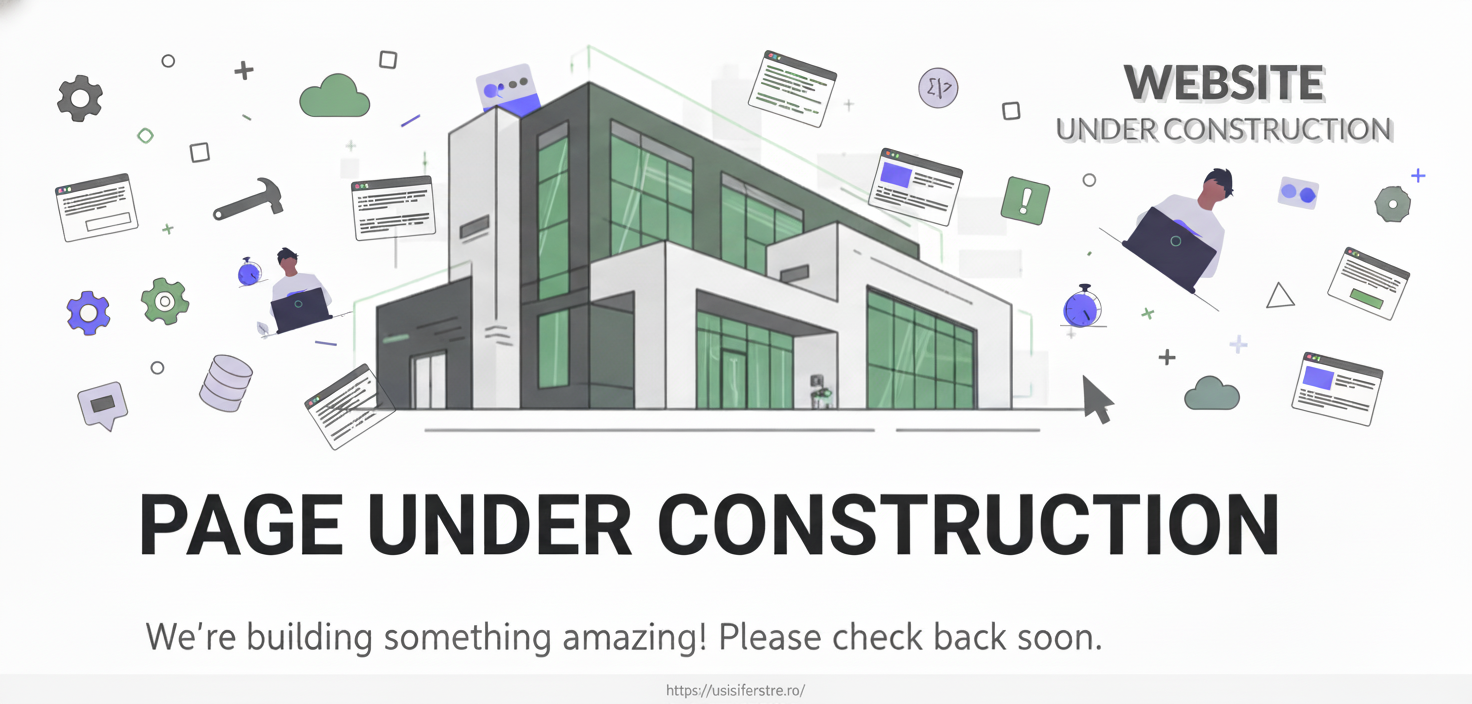
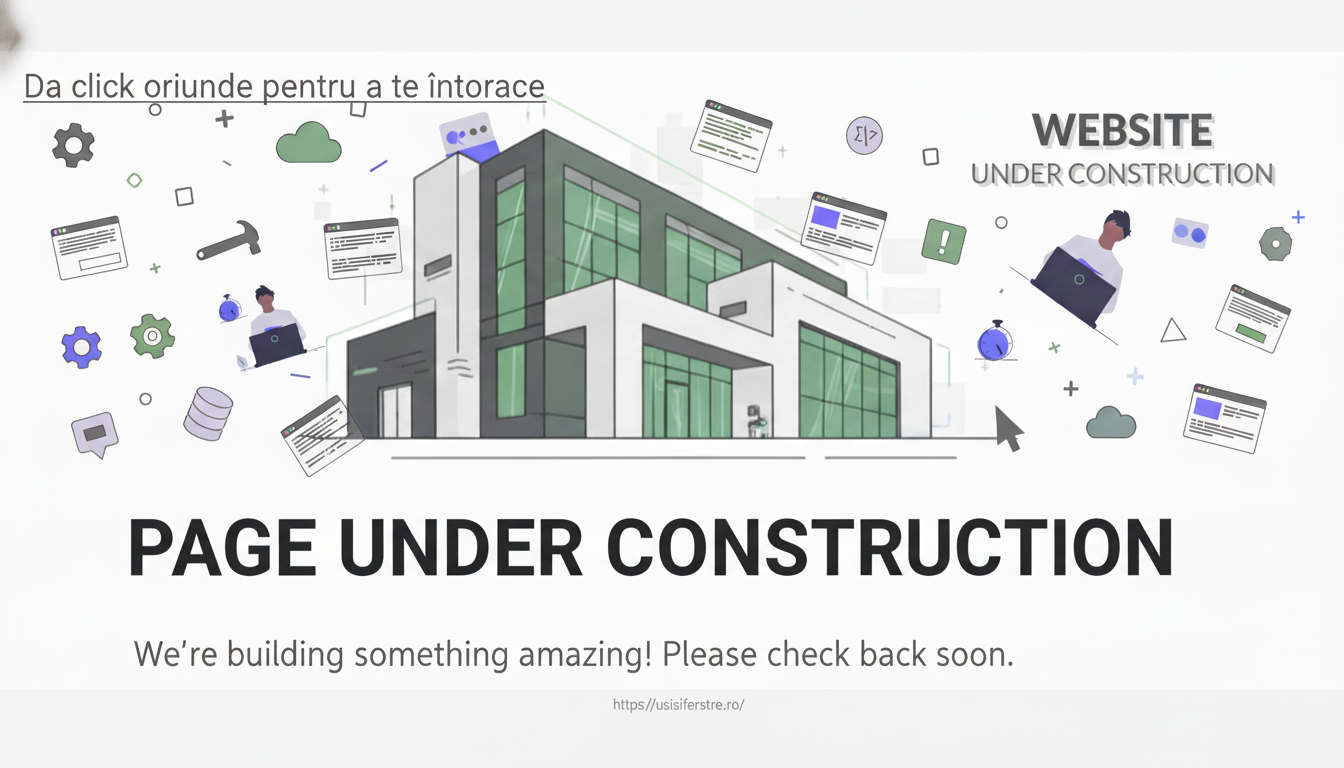
various changes, mobile responsive, whatsapp linking

diff --git a/src/app/shared/components/contact-info/contact-info-bar.html b/src/app/shared/components/contact-info/contact-info-bar.html
@@ -1,12 +1,13 @@
 <section class="contact-info-container">
-  <p class="contact-info-container__info-text">
-    Mobil:
-    <a href="tel:+40757131273"><span style="text-decoration: underline">0757 131 273</span></a>
-    • WhatsApp:
-    <a href="https://wa.me/0720545757"><span style="text-decoration: underline">0720 545 757</span></a>
-    • E-mail:
-    <a class="contact-info-container__info-text--mail" href="mailto:info@usisiferestre.ro">
-      <span style="text-decoration: underline">info@usisiferestre.ro</span>
+    <a href="tel:+40757131273">
+      • Mobil: <span style="text-decoration: underline">0757 131 273</span>
     </a>
-  </p>
+
+    <a href="https://wa.me/40720545757">
+      • Whatsapp: <span style="text-decoration: underline">0720 545 757</span>
+    </a>
+
+    <a class="contact-info-container__info-text--mail" href="mailto:info@usisiferestre.ro">
+      • E-mail: <span style="text-decoration: underline">info@usisiferestre.ro</span>
+    </a>
 </section>

diff --git a/src/app/pages/homepage/homepage.html b/src/app/pages/homepage/homepage.html
@@ -2,9 +2,8 @@
   <section class="homepage__image-and-text-container">
     <div class="homepage__hero-container">
       <h1 class="homepage__hero-container__header">Usi si ferestre de calitate<br>superioara pentru casa ta</h1>
-      <p>Transforma spatiile din casa ta in locuri comfortabile si sigure,
-        <br> afla mai multe despre ofertele noastre
-      </p>
+      <p class="homepage__hero-container__text">Transforma spatiile din casa ta in locuri comfortabile si sigure, afla
+        mai multe despre ofertele noastre</p>
       <input class="homepage__hero-container__button" type="button" value="Descopera serviciile noastre">
       <div class="homepage__hero-container__links-container">
         <p class="homepage__hero-container__links-container--link" routerLink="">experienta</p>

diff --git a/src/app/app.routes.ts b/src/app/app.routes.ts
@@ -1,10 +1,11 @@
 import {Routes} from '@angular/router';
 import {Homepage} from './pages/homepage/homepage';
+import {UnderConstruction} from './pages/under-construction/under-construction';
 
 export const routes: Routes = [
   {path: '', redirectTo: 'homepage', pathMatch: 'full'},
   {path: 'homepage', component: Homepage},
-  {path: 'about-us', component: Homepage},
-  {path: 'products', component: Homepage},
-  {path: 'contact', component: Homepage},
+  {path: 'about-us', component: UnderConstruction},
+  {path: 'products', component: UnderConstruction},
+  {path: 'contact', component: UnderConstruction},
 ];

diff --git a/src/app/shared/components/contact-info/contact-info-bar.scss b/src/app/shared/components/contact-info/contact-info-bar.scss
@@ -1,12 +1,17 @@
 @use "../../../../assets/styles/colors";
 
 .contact-info-container {
+  display: flex;
+  background-color: colors.$primary-green-color;
+  color: colors.$white;
+  font-size: 14px;
+  padding: 8px;
+  gap: 10px;
+
   &__info-text {
     margin: 0;
     padding: 8px;
-    background-color: colors.$primary-green-color;
     color: colors.$white;
-    font-size: 14px;
 
     &--mail {
       color: colors.$white;

diff --git a/src/app/pages/under-construction/under-construction.scss b/src/app/pages/under-construction/under-construction.scss
@@ -1,0 +1,22 @@
+@use "../../../assets/styles/colors";
+
+.under-construction {
+  position: absolute;
+  top: 0;
+  left: 0;
+  right: 0;
+  bottom: 0;
+  z-index: 9999;
+  background-color: colors.$main-background-color;
+  text-align: center;
+  align-content: center;
+
+  & a {
+    text-decoration: underline;
+    font-weight: 500;
+  }
+
+  &, a, p {
+    white-space: wrap;
+  }
+}

diff --git a/src/app/pages/under-construction/under-construction.ts b/src/app/pages/under-construction/under-construction.ts
@@ -1,8 +1,11 @@
-import { Component } from '@angular/core';
+import {Component} from '@angular/core';
+import {RouterLink} from '@angular/router';
 
 @Component({
   selector: 'app-under-construction',
-  imports: [],
+  imports: [
+    RouterLink
+  ],
   templateUrl: './under-construction.html',
   styleUrl: './under-construction.scss',
 })

diff --git a/src/app/shared/components/nav-bar/nav-bar.scss b/src/app/shared/components/nav-bar/nav-bar.scss
@@ -6,6 +6,7 @@
   position: sticky;
   background-color: colors.$white;
   color: colors.$main-text-color;
+  height: 64px;
 
   &__logo {
     cursor: pointer;
@@ -22,6 +23,10 @@
 
     @media only screen and (max-width: 1024px) {
       width: 98%;
+    }
+
+    @media only screen and (max-width: 646px) {
+      display: none;
     }
   }
 

diff --git a/src/app/pages/homepage/homepage.scss b/src/app/pages/homepage/homepage.scss
@@ -60,6 +60,15 @@
   &__hero-container {
     padding: 14px 20px;
 
+    &__text {
+      width: 520px;
+      white-space: wrap;
+      @media only screen and (max-width: 640px) {
+        width: 425px;
+      }
+    }
+    
+
     &__header {
       margin-bottom: 15px;
       color: colors.$main-text-color;

diff --git a/src/app/pages/under-construction/under-construction.html b/src/app/pages/under-construction/under-construction.html
@@ -1,3 +1,5 @@
-<div>
-  
+<div class="under-construction">
+  <i class="ri-building-2-line" style="font-size: 48px"></i>
+  <p>Pagina accesata este momentan in constructie, va rugam reveniti mai tarziu.</p>
+  <p>Pentru a va intoarce pe pagina principala <a routerLink="/homepage">Click aici!</a></p>
 </div>

diff --git a/src/app/shared/components/small-card/small-card.scss b/src/app/shared/components/small-card/small-card.scss
@@ -7,6 +7,10 @@
   width: 250px;
   height: 292px;
 
+  @media only screen and (max-width: 370px) {
+    width: auto;
+  }
+
   &__icon-container {
     width: 100%;
     text-align: center;

diff --git a/src/app/app.scss b/src/app/app.scss
@@ -1,5 +1,5 @@
 .sticky-nav-bar {
   position: sticky;
   top: 0;
-  z-index: 9999;
+  z-index: 999;
 }
